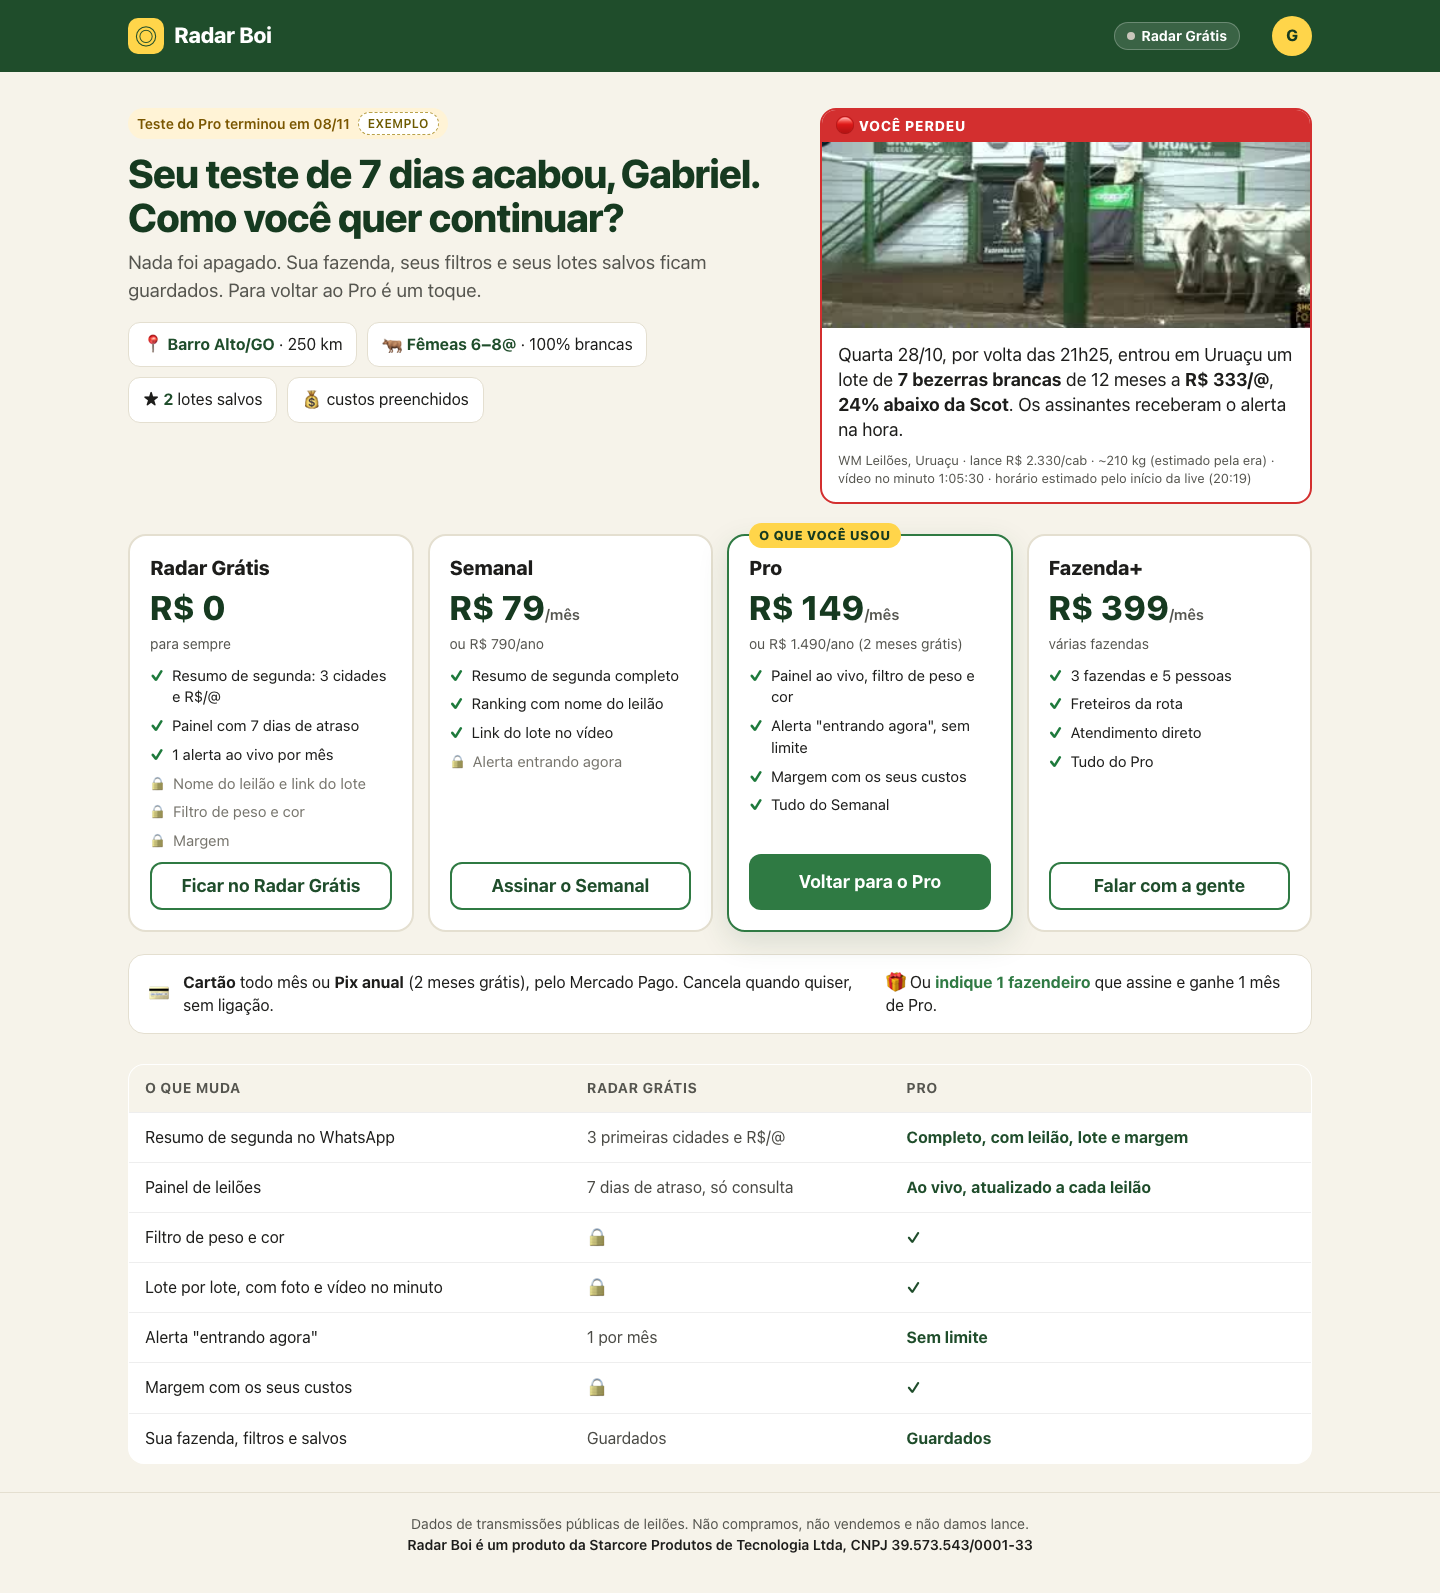
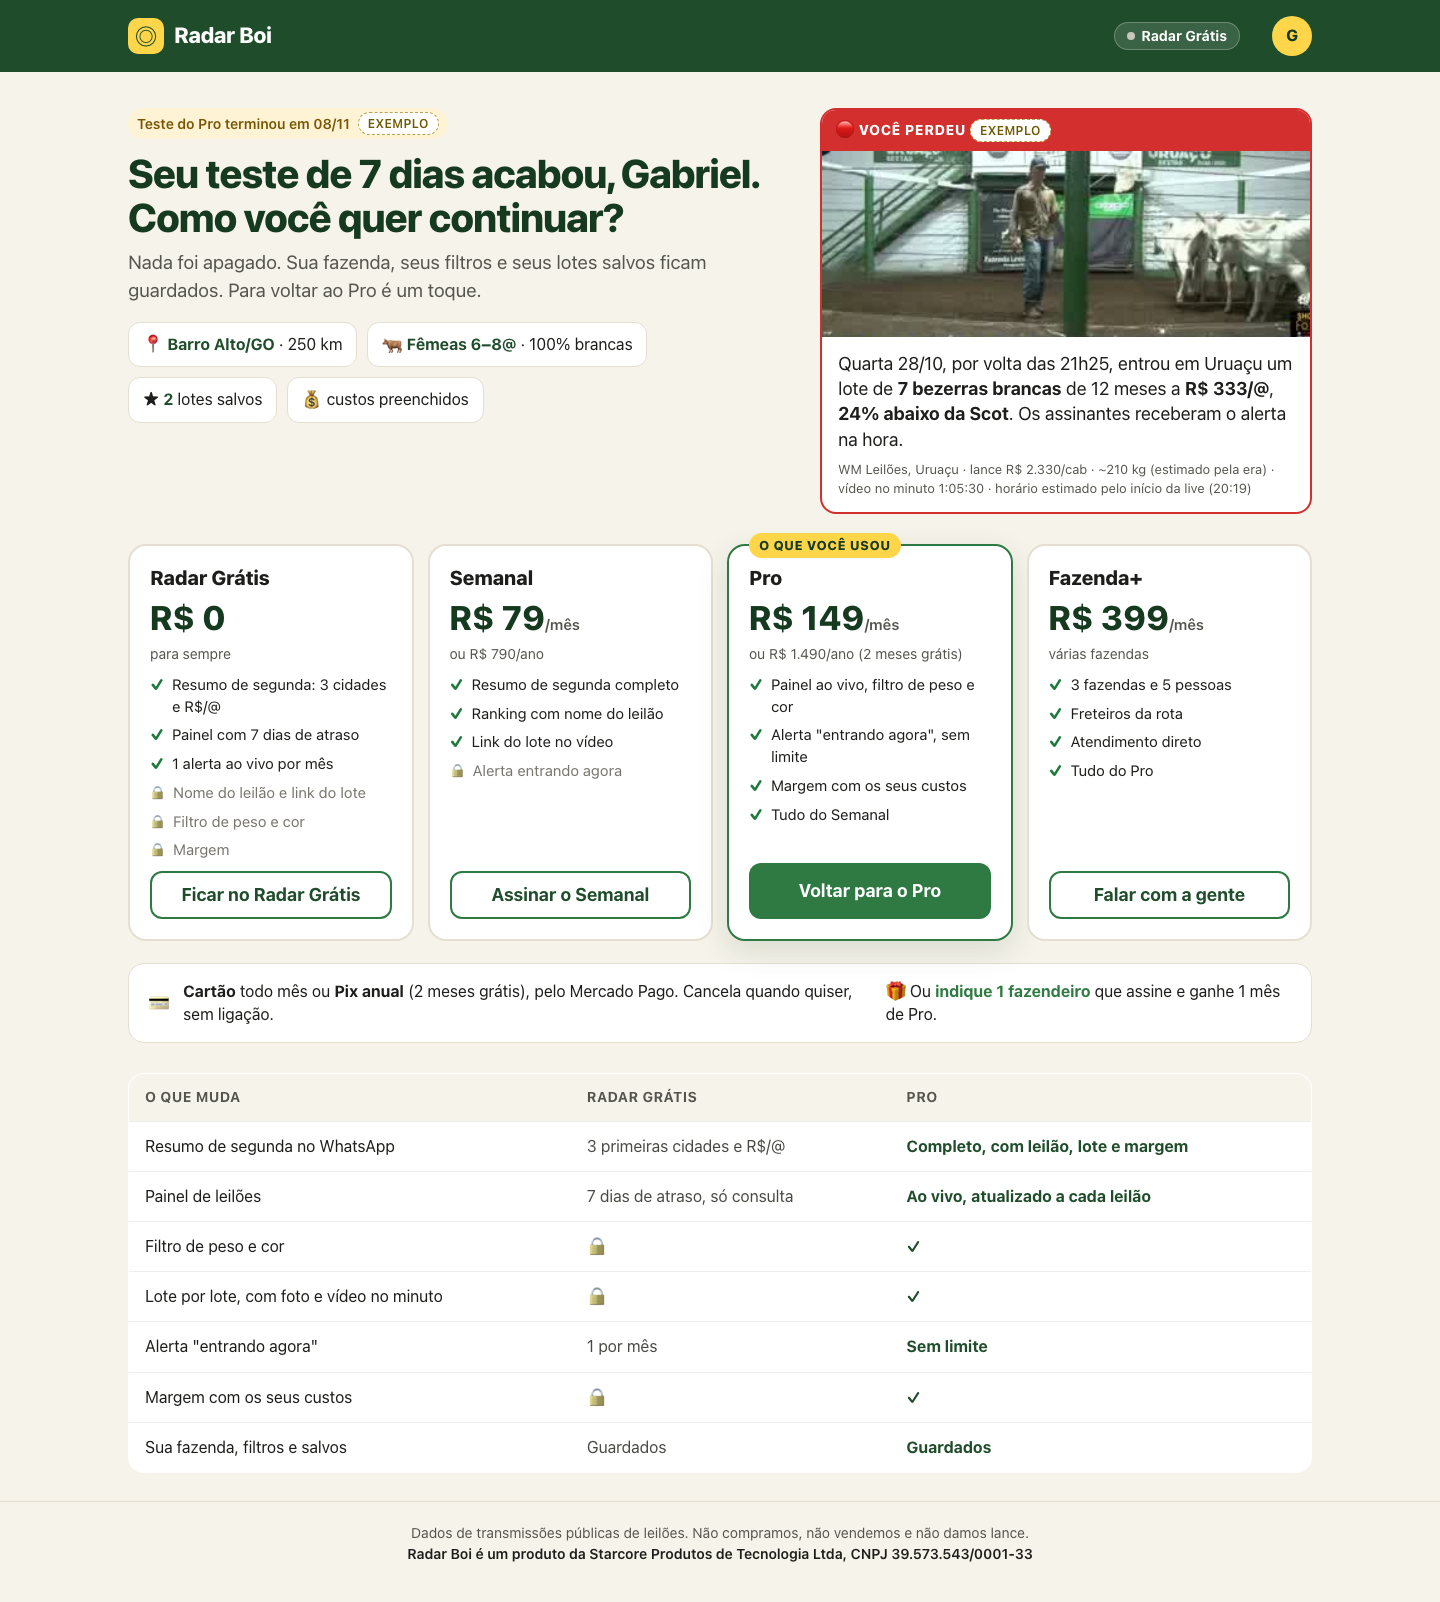
'Você perdeu': lote de 28/10 marcado como exemplo; regra = lote da semana mais recente que o Grátis ainda não vê

diff --git a/docs/design/web/w10-teste-acabou.html b/docs/design/web/w10-teste-acabou.html
@@ -32,7 +32,7 @@
      Aparece no 1º acesso depois do fim do teste de 7 dias (e é o destino do link do WhatsApp do dia 7).
      Padrão pré-selecionado: Pro (o que a pessoa usou). Se fechar a tela ou tocar em "Ficar no Radar Grátis", a conta vira status gratuita:
      NADA é apagado (fazenda, filtros, salvos, custos). Assinar = 1 toque: link do Mercado Pago (cartão todo mês ou Pix anual); os filtros voltam como estavam.
-     Números de "nos seus 7 dias" vêm da conta (aqui: exemplo). O bloco "você perdeu" usa o melhor lote real e de cor conferida que passou no filtro dela. -->
+     Números de "nos seus 7 dias" vêm da conta (aqui: exemplo). Regra do bloco "você perdeu": lote real, de cor conferida, da semana mais recente que o Grátis ainda não vê (dentro dos 7 dias de atraso), no filtro salvo da conta. Aqui o lote de 28/10 é só exemplo. -->
 <header class="w-top"><div class="in">
   <span class="rb-logo claro" style="color:#fff"><i>◎</i>Radar Boi</span>
   <nav></nav><span class="rb-plano rb-plano--gratis">Radar Grátis</span>
@@ -47,7 +47,7 @@
     <p class="s">Nada foi apagado. Sua fazenda, seus filtros e seus lotes salvos ficam guardados. Para voltar ao Pro é um toque.</p>
     <div class="guard"><span>📍 <b>Barro Alto/GO</b> · 250 km</span><span>🐂 <b>Fêmeas 6–8@</b> · 100% brancas</span><span>★ <b>2</b> lotes salvos</span><span>💰 custos preenchidos</span></div>
   </div>
-  <div class="rb-perdeu"><div class="tp">🔴 Você perdeu</div><img src="../img/rmlJbmSu1i4_10_1.jpg" alt=""><div class="cp"><div class="q">Quarta 28/10, por volta das 21h25, entrou em Uruaçu um lote de <b>7 bezerras brancas</b> de 12 meses a <b>R$ 333/@</b>, <b>24% abaixo da Scot</b>. Os assinantes receberam o alerta na hora.</div><div class="src">WM Leilões, Uruaçu · lance R$ 2.330/cab · ~210 kg (estimado pela era) · vídeo no minuto 1:05:30 · horário estimado pelo início da live (20:19)</div></div></div>
+  <div class="rb-perdeu"><div class="tp">🔴 Você perdeu <span class="rb-tag rb-tag--exemplo">exemplo</span></div><img src="../img/rmlJbmSu1i4_10_1.jpg" alt=""><div class="cp"><div class="q">Quarta 28/10, por volta das 21h25, entrou em Uruaçu um lote de <b>7 bezerras brancas</b> de 12 meses a <b>R$ 333/@</b>, <b>24% abaixo da Scot</b>. Os assinantes receberam o alerta na hora.</div><div class="src">WM Leilões, Uruaçu · lance R$ 2.330/cab · ~210 kg (estimado pela era) · vídeo no minuto 1:05:30 · horário estimado pelo início da live (20:19)</div></div></div>
 </div>
 <div class="planos">
   <div class="pc"><h3>Radar Grátis</h3><div class="p">R$ 0</div><div class="an">para sempre</div>

diff --git a/docs/design/whatsapp/z03-resumo-gratis.html b/docs/design/whatsapp/z03-resumo-gratis.html
@@ -22,7 +22,7 @@
 .al{border-left:4px solid var(--aovivo)}
 </style></head>
 <body class="app-pg">
-<!-- Z03 · WhatsApp: resumo de segunda (Radar Grátis). Template utilidade. Ranking = 3 primeiras cidades, só R$/@ (fêmeas, todas as eras e cores, raio da fazenda). Sem nome do leilão, sem link do lote, sem margem. Bloco 'você perdeu' = melhor lote real da semana no filtro salvo da conta. Horário ~21h25 = início da live (20:19) + minuto 1:05:30. Lote trocado em 05/11: o de 04/11 (qP6lHvAU3Bw 1:43:20) foi reprovado na cor. -->
+<!-- Z03 · WhatsApp: resumo de segunda (Radar Grátis). Template utilidade. Ranking = 3 primeiras cidades, só R$/@ (fêmeas, todas as eras e cores, raio da fazenda). Sem nome do leilão, sem link do lote, sem margem. Bloco 'você perdeu' (regra): lote real, de cor conferida, da semana mais recente que o Grátis ainda não vê (dentro dos 7 dias de atraso), no filtro salvo da conta. Aqui: exemplo com o lote de 28/10. Horário ~21h25 = início da live (20:19) + minuto 1:05:30. Lote trocado em 05/11: o de 04/11 (qP6lHvAU3Bw 1:43:20) foi reprovado na cor. -->
 <div class="phone">
 <div class="sb claro"><span>9:41</span><span class="di"></span><span>▂▄▆ 4G ▭</span></div><div class="wah"><span>←</span><span class="av">◎</span><div><b>Radar Boi ✓</b><small>conta comercial</small></div></div>
 <div class="cv">
@@ -30,7 +30,7 @@
   <div class="m"><b>Bom dia, Gabriel! ☀ Resumo da semana (grátis)</b><br>Fêmeas até 250 km de Barro Alto. Leilões de 02 a 06/11:
     <table class="num"><tr><td>🥇 Uruaçu</td><td>R$ 270/@</td></tr><tr><td>🥈 Niquelândia</td><td>R$ 335/@</td></tr><tr><td>🥉 Bela Vista de Goiás</td><td>R$ 345/@</td></tr></table>
     🔒 Leilão, lote, vídeo e margem: só no Pro.
-    <div style="margin-top:8px;padding:8px 10px;border-left:4px solid var(--aovivo);background:#fff4f3;border-radius:6px">🔴 <b>Você perdeu:</b> quarta 28/10, ~21h25, entrou em Uruaçu um lote de <b>7 bezerras brancas</b> a <b>R$ 333/@</b>, <b>24% abaixo da Scot</b>. Os assinantes receberam o alerta na hora.</div>
+    <div style="margin-top:8px;padding:8px 10px;border-left:4px solid var(--aovivo);background:#fff4f3;border-radius:6px">🔴 <b>Você perdeu</b> <i>(exemplo)</i><b>:</b> quarta 28/10, ~21h25, entrou em Uruaçu um lote de <b>7 bezerras brancas</b> a <b>R$ 333/@</b>, <b>24% abaixo da Scot</b>. Os assinantes receberam o alerta na hora.</div>
     <div style="margin-top:8px">🎁 Indique 1 fazendeiro que assine e ganhe 1 mês de Pro.</div>
     <div class="h">06:00</div>
     <div class="bt"><span>⭐ Voltar pro Pro</span><span>🎁 Indicar</span></div></div>

diff --git a/docs/design/web/w11-painel-gratis.html b/docs/design/web/w11-painel-gratis.html
@@ -50,7 +50,7 @@ table.rk{width:100%;border-collapse:collapse;background:#fff;border:1px solid va
     <div class="rb-nota" style="margin-top:12px">R$/@ = soma dos lances ÷ soma das @ estimadas pela era (8 m 180 kg, 12 m 210 kg, 18 m 270 kg), ponderado por cabeça. Mistura todas as eras e cores, por isso não é comparável com o ranking do Pro.</div>
   </div>
   <aside class="lado">
-    <div class="rb-perdeu"><div class="tp">🔴 Você perdeu</div><img src="../img/rmlJbmSu1i4_10_1.jpg" alt=""><div class="cp"><div class="q" style="font-size:17px">Quarta 28/10, por volta das 21h25, entrou em Uruaçu um lote de <b>7 bezerras brancas</b> de 12 meses a <b>R$ 333/@</b>, <b>24% abaixo da Scot</b>. Os assinantes receberam o alerta na hora.</div><div class="src">WM Leilões, Uruaçu · lance R$ 2.330/cab · ~210 kg (estimado pela era) · vídeo no minuto 1:05:30 · horário estimado pelo início da live (20:19)</div><a class="rb-btn rb-btn--pri rb-btn--full" style="font-size:17px">Receber o próximo na hora</a></div></div>
+    <div class="rb-perdeu"><div class="tp">🔴 Você perdeu <span class="rb-tag rb-tag--exemplo">exemplo</span></div><img src="../img/rmlJbmSu1i4_10_1.jpg" alt=""><div class="cp"><div class="q" style="font-size:17px">Quarta 28/10, por volta das 21h25, entrou em Uruaçu um lote de <b>7 bezerras brancas</b> de 12 meses a <b>R$ 333/@</b>, <b>24% abaixo da Scot</b>. Os assinantes receberam o alerta na hora.</div><div class="src">WM Leilões, Uruaçu · lance R$ 2.330/cab · ~210 kg (estimado pela era) · vídeo no minuto 1:05:30 · horário estimado pelo início da live (20:19)</div><a class="rb-btn rb-btn--pri rb-btn--full" style="font-size:17px">Receber o próximo na hora</a></div></div>
     <div class="alg"><h3>🔔 Seu alerta grátis de novembro</h3><p>1 alerta "entrando agora" por mês, para você sentir como é.</p><div class="cont"><i></i></div><b>1 disponível</b><span class="muted"> · vale para o próximo lote do seu filtro</span></div>
     <div class="alg" style="background:var(--verde-50);border-color:#cfe3d4"><h3>🎁 Ganhe 1 mês de Pro</h3><p>Indique um fazendeiro. Se ele assinar, você ganha 1 mês do Pro.</p><a class="rb-btn rb-btn--sec rb-btn--full" style="font-size:17px">Indicar no WhatsApp</a></div>
   </aside>

diff --git a/docs/design/app/a13-teste-acabou.html b/docs/design/app/a13-teste-acabou.html
@@ -21,7 +21,7 @@
 <div class="ta">
   <h1>Seu teste de 7 dias acabou.</h1>
   <p class="s">Sua fazenda, filtros e salvos ficam guardados. Voltar é um toque.</p>
-  <div class="rb-perdeu" style="margin-bottom:12px"><div class="tp">🔴 Você perdeu</div><div class="cp" style="padding:10px 12px"><div class="q" style="font-size:15px">Qua 28/10, ~21h25, em Uruaçu: <b>7 bezerras brancas</b> a <b>R$ 333/@</b>, <b>24% abaixo da Scot</b>. Os assinantes receberam na hora.</div></div></div>
+  <div class="rb-perdeu" style="margin-bottom:12px"><div class="tp">🔴 Você perdeu <span class="rb-tag rb-tag--exemplo">exemplo</span></div><div class="cp" style="padding:10px 12px"><div class="q" style="font-size:15px">Qua 28/10, ~21h25, em Uruaçu: <b>7 bezerras brancas</b> a <b>R$ 333/@</b>, <b>24% abaixo da Scot</b>. Os assinantes receberam na hora.</div></div></div>
   <div class="op on"><span class="rd"></span><div><b>Pro</b><small>Ao vivo, peso e cor, alerta sem limite</small></div><div class="p">R$ 149<br><small>/mês</small></div></div>
   <div class="op"><span class="rd"></span><div><b>Semanal</b><small>Resumo completo de segunda</small></div><div class="p">R$ 79<br><small>/mês</small></div></div>
   <div class="op"><span class="rd"></span><div><b>Radar Grátis</b><small>3 cidades no resumo, painel 7 dias atrasado, 1 alerta/mês</small></div><div class="p">R$ 0</div></div>

diff --git a/scripts/gen_gratis.py b/scripts/gen_gratis.py
@@ -107,7 +107,7 @@ W10_CSS = """
 S["web/w10-teste-acabou"] = web("W10 · Seu teste acabou", """Aparece no 1º acesso depois do fim do teste de 7 dias (e é o destino do link do WhatsApp do dia 7).
      Padrão pré-selecionado: Pro (o que a pessoa usou). Se fechar a tela ou tocar em "Ficar no Radar Grátis", a conta vira status gratuita:
      NADA é apagado (fazenda, filtros, salvos, custos). Assinar = 1 toque: link do Mercado Pago (cartão todo mês ou Pix anual); os filtros voltam como estavam.
-     Números de "nos seus 7 dias" vêm da conta (aqui: exemplo). O bloco "você perdeu" usa o melhor lote real e de cor conferida que passou no filtro dela.""", W10_CSS, f"""
+     Números de "nos seus 7 dias" vêm da conta (aqui: exemplo). Regra do bloco "você perdeu": lote real, de cor conferida, da semana mais recente que o Grátis ainda não vê (dentro dos 7 dias de atraso), no filtro salvo da conta. Aqui o lote de 28/10 é só exemplo.""", W10_CSS, f"""
 <div class="hero">
   <div>
     <span class="rb-tag" style="background:var(--aviso-bg);color:var(--aviso)">Teste do Pro terminou em 08/11 <span class="rb-tag rb-tag--exemplo" style="margin-left:4px">exemplo</span></span>
@@ -115,7 +115,7 @@ S["web/w10-teste-acabou"] = web("W10 · Seu teste acabou", """Aparece no 1º ace
     <p class="s">Nada foi apagado. Sua fazenda, seus filtros e seus lotes salvos ficam guardados. Para voltar ao Pro é um toque.</p>
     <div class="guard"><span>📍 <b>Barro Alto/GO</b> · 250 km</span><span>🐂 <b>Fêmeas 6–8@</b> · 100% brancas</span><span>★ <b>2</b> lotes salvos</span><span>💰 custos preenchidos</span></div>
   </div>
-  <div class="rb-perdeu"><div class="tp">🔴 Você perdeu</div><img src="../img/rmlJbmSu1i4_10_1.jpg" alt=""><div class="cp"><div class="q">{PERDEU_TXT}</div><div class="src">{PERDEU_SRC}</div></div></div>
+  <div class="rb-perdeu"><div class="tp">🔴 Você perdeu <span class="rb-tag rb-tag--exemplo">exemplo</span></div><img src="../img/rmlJbmSu1i4_10_1.jpg" alt=""><div class="cp"><div class="q">{PERDEU_TXT}</div><div class="src">{PERDEU_SRC}</div></div></div>
 </div>
 <div class="planos">
   <div class="pc"><h3>Radar Grátis</h3><div class="p">R$ 0</div><div class="an">para sempre</div>
@@ -189,7 +189,7 @@ S["web/w11-painel-gratis"] = web("W11 · Painel no Radar Grátis", """Mesmo W04,
     <div class="rb-nota" style="margin-top:12px">R$/@ = soma dos lances ÷ soma das @ estimadas pela era (8 m 180 kg, 12 m 210 kg, 18 m 270 kg), ponderado por cabeça. Mistura todas as eras e cores, por isso não é comparável com o ranking do Pro.</div>
   </div>
   <aside class="lado">
-    <div class="rb-perdeu"><div class="tp">🔴 Você perdeu</div><img src="../img/rmlJbmSu1i4_10_1.jpg" alt=""><div class="cp"><div class="q" style="font-size:17px">{PERDEU_TXT}</div><div class="src">{PERDEU_SRC}</div><a class="rb-btn rb-btn--pri rb-btn--full" style="font-size:17px">Receber o próximo na hora</a></div></div>
+    <div class="rb-perdeu"><div class="tp">🔴 Você perdeu <span class="rb-tag rb-tag--exemplo">exemplo</span></div><img src="../img/rmlJbmSu1i4_10_1.jpg" alt=""><div class="cp"><div class="q" style="font-size:17px">{PERDEU_TXT}</div><div class="src">{PERDEU_SRC}</div><a class="rb-btn rb-btn--pri rb-btn--full" style="font-size:17px">Receber o próximo na hora</a></div></div>
     <div class="alg"><h3>🔔 Seu alerta grátis de novembro</h3><p>1 alerta "entrando agora" por mês, para você sentir como é.</p><div class="cont"><i></i></div><b>1 disponível</b><span class="muted"> · vale para o próximo lote do seu filtro</span></div>
     <div class="alg" style="background:var(--verde-50);border-color:#cfe3d4"><h3>🎁 Ganhe 1 mês de Pro</h3><p>Indique um fazendeiro. Se ele assinar, você ganha 1 mês do Pro.</p><a class="rb-btn rb-btn--sec rb-btn--full" style="font-size:17px">Indicar no WhatsApp</a></div>
   </aside>
@@ -324,7 +324,7 @@ S["app/a13-teste-acabou"] = page("A13 · Seu teste acabou (app)", sb() + f"""
 <div class="ta">
   <h1>Seu teste de 7 dias acabou.</h1>
   <p class="s">Sua fazenda, filtros e salvos ficam guardados. Voltar é um toque.</p>
-  <div class="rb-perdeu" style="margin-bottom:12px"><div class="tp">🔴 Você perdeu</div><div class="cp" style="padding:10px 12px"><div class="q" style="font-size:15px">Qua 28/10, ~21h25, em Uruaçu: <b>7 bezerras brancas</b> a <b>R$ 333/@</b>, <b>24% abaixo da Scot</b>. Os assinantes receberam na hora.</div></div></div>
+  <div class="rb-perdeu" style="margin-bottom:12px"><div class="tp">🔴 Você perdeu <span class="rb-tag rb-tag--exemplo">exemplo</span></div><div class="cp" style="padding:10px 12px"><div class="q" style="font-size:15px">Qua 28/10, ~21h25, em Uruaçu: <b>7 bezerras brancas</b> a <b>R$ 333/@</b>, <b>24% abaixo da Scot</b>. Os assinantes receberam na hora.</div></div></div>
   <div class="op on"><span class="rd"></span><div><b>Pro</b><small>Ao vivo, peso e cor, alerta sem limite</small></div><div class="p">R$ 149<br><small>/mês</small></div></div>
   <div class="op"><span class="rd"></span><div><b>Semanal</b><small>Resumo completo de segunda</small></div><div class="p">R$ 79<br><small>/mês</small></div></div>
   <div class="op"><span class="rd"></span><div><b>Radar Grátis</b><small>3 cidades no resumo, painel 7 dias atrasado, 1 alerta/mês</small></div><div class="p">R$ 0</div></div>
@@ -385,13 +385,13 @@ S["whatsapp/z03-resumo-gratis"] = page("Z03 · WhatsApp: resumo de segunda (Rada
   <div class="m"><b>Bom dia, Gabriel! ☀ Resumo da semana (grátis)</b><br>Fêmeas até 250 km de Barro Alto. Leilões de 02 a 06/11:
     <table class="num"><tr><td>🥇 {s1['cidade']}</td><td>R$ {s1['arr']}/@</td></tr><tr><td>🥈 {s2['cidade']}</td><td>R$ {s2['arr']}/@</td></tr><tr><td>🥉 {s3['cidade']}</td><td>R$ {s3['arr']}/@</td></tr></table>
     🔒 Leilão, lote, vídeo e margem: só no Pro.
-    <div style="margin-top:8px;padding:8px 10px;border-left:4px solid var(--aovivo);background:#fff4f3;border-radius:6px">🔴 <b>Você perdeu:</b> quarta 28/10, ~21h25, entrou em Uruaçu um lote de <b>7 bezerras brancas</b> a <b>R$ 333/@</b>, <b>24% abaixo da Scot</b>. Os assinantes receberam o alerta na hora.</div>
+    <div style="margin-top:8px;padding:8px 10px;border-left:4px solid var(--aovivo);background:#fff4f3;border-radius:6px">🔴 <b>Você perdeu</b> <i>(exemplo)</i><b>:</b> quarta 28/10, ~21h25, entrou em Uruaçu um lote de <b>7 bezerras brancas</b> a <b>R$ 333/@</b>, <b>24% abaixo da Scot</b>. Os assinantes receberam o alerta na hora.</div>
     <div style="margin-top:8px">🎁 Indique 1 fazendeiro que assine e ganhe 1 mês de Pro.</div>
     <div class="h">06:00</div>
     <div class="bt"><span>⭐ Voltar pro Pro</span><span>🎁 Indicar</span></div></div>
   <div class="m eu">qual leilão de uruaçu?<div class="h">07:05 ✓✓</div></div>
   <div class="m">Fica no Pro. Seus filtros estão guardados: toque em <b>Voltar pro Pro</b>. 👍<div class="h">07:05</div></div>
-</div>""" + WAIN, WA_CSS, nota="Template utilidade. Ranking = 3 primeiras cidades, só R$/@ (fêmeas, todas as eras e cores, raio da fazenda). Sem nome do leilão, sem link do lote, sem margem. Bloco 'você perdeu' = melhor lote real da semana no filtro salvo da conta. Horário ~21h25 = início da live (20:19) + minuto 1:05:30. Lote trocado em 05/11: o de 04/11 (qP6lHvAU3Bw 1:43:20) foi reprovado na cor.")
+</div>""" + WAIN, WA_CSS, nota="Template utilidade. Ranking = 3 primeiras cidades, só R$/@ (fêmeas, todas as eras e cores, raio da fazenda). Sem nome do leilão, sem link do lote, sem margem. Bloco 'você perdeu' (regra): lote real, de cor conferida, da semana mais recente que o Grátis ainda não vê (dentro dos 7 dias de atraso), no filtro salvo da conta. Aqui: exemplo com o lote de 28/10. Horário ~21h25 = início da live (20:19) + minuto 1:05:30. Lote trocado em 05/11: o de 04/11 (qP6lHvAU3Bw 1:43:20) foi reprovado na cor.")
 
 if __name__ == "__main__":
     for k, v in S.items():

diff --git a/docs/design/README.md b/docs/design/README.md
@@ -183,7 +183,7 @@ Quem não paga depois dos 7 dias de teste cai no **Radar Grátis**. Regra de our
 | **Bloqueio** | `.rb-bloq > .atras + .cad` | Lista inteira atrás de blur, com cadeado, título que diz o que se ganha e CTA. Atrás do blur vão **valores falsos**. |
 | **CampoBloqueado** | `.rb-cadeado` | Um campo só (Scot, margem, vídeo, lotes). Clicável, abre W10/A13. |
 | **ChipBloqueado** | `.rb-chip.is-bloq` | Filtro de peso e cor no grátis. |
-| **CardVocePerdeu** | `.rb-perdeu` | Melhor lote real da semana no filtro salvo da conta, com fonte (vídeo e minuto). |
+| **CardVocePerdeu** | `.rb-perdeu` | Regra: lote real, de cor conferida, da semana mais recente que o Grátis ainda não vê (dentro dos 7 dias de atraso), no filtro salvo da conta, com fonte (vídeo e minuto). Nas telas, as 7 bezerras de Uruaçu 28/10 aparecem marcadas como exemplo. |
 
 Regras para o dev:
 - Dado bloqueado **não sai do servidor** para conta grátis (nada de esconder com CSS).
